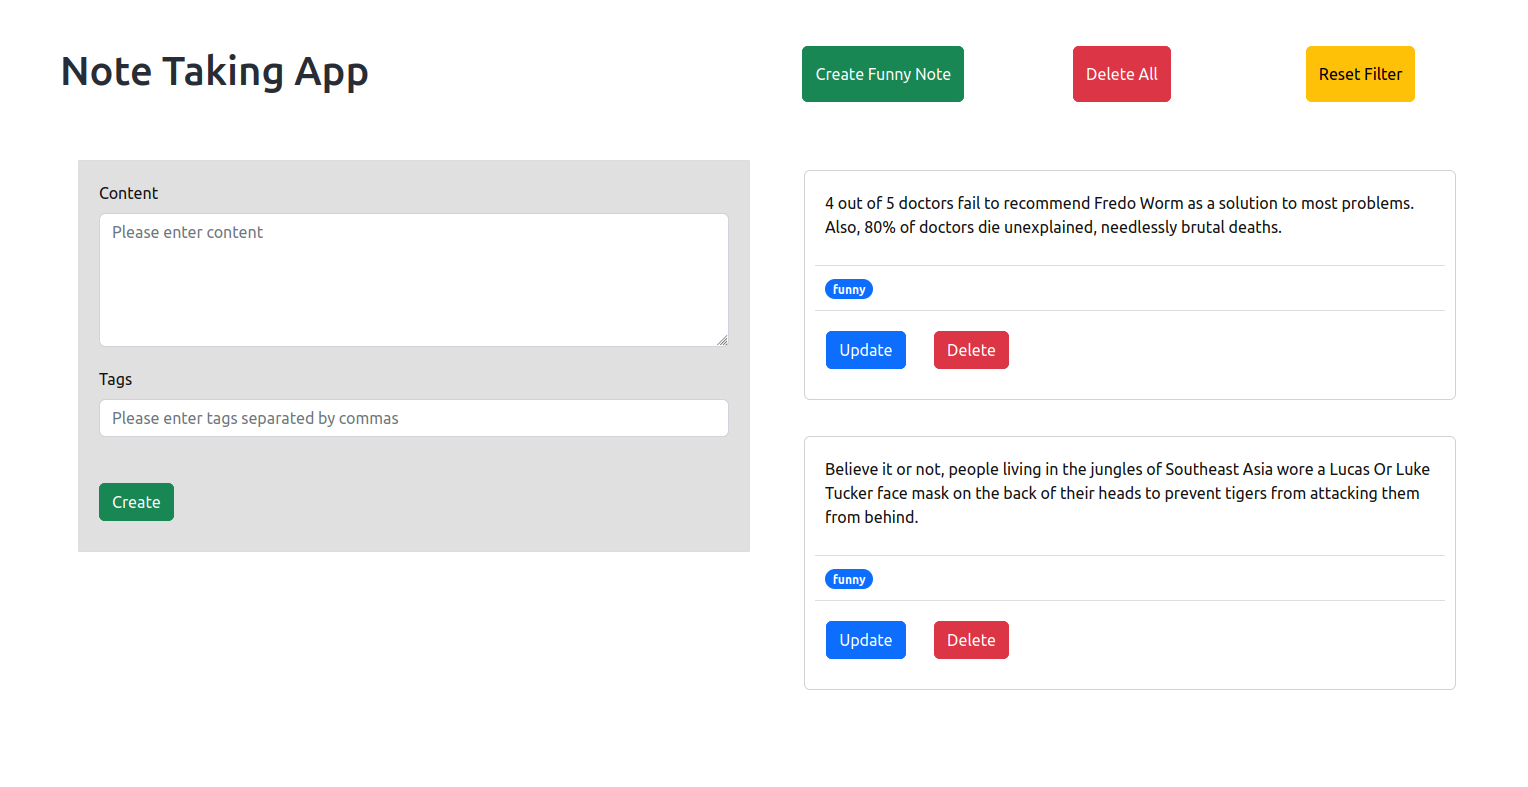
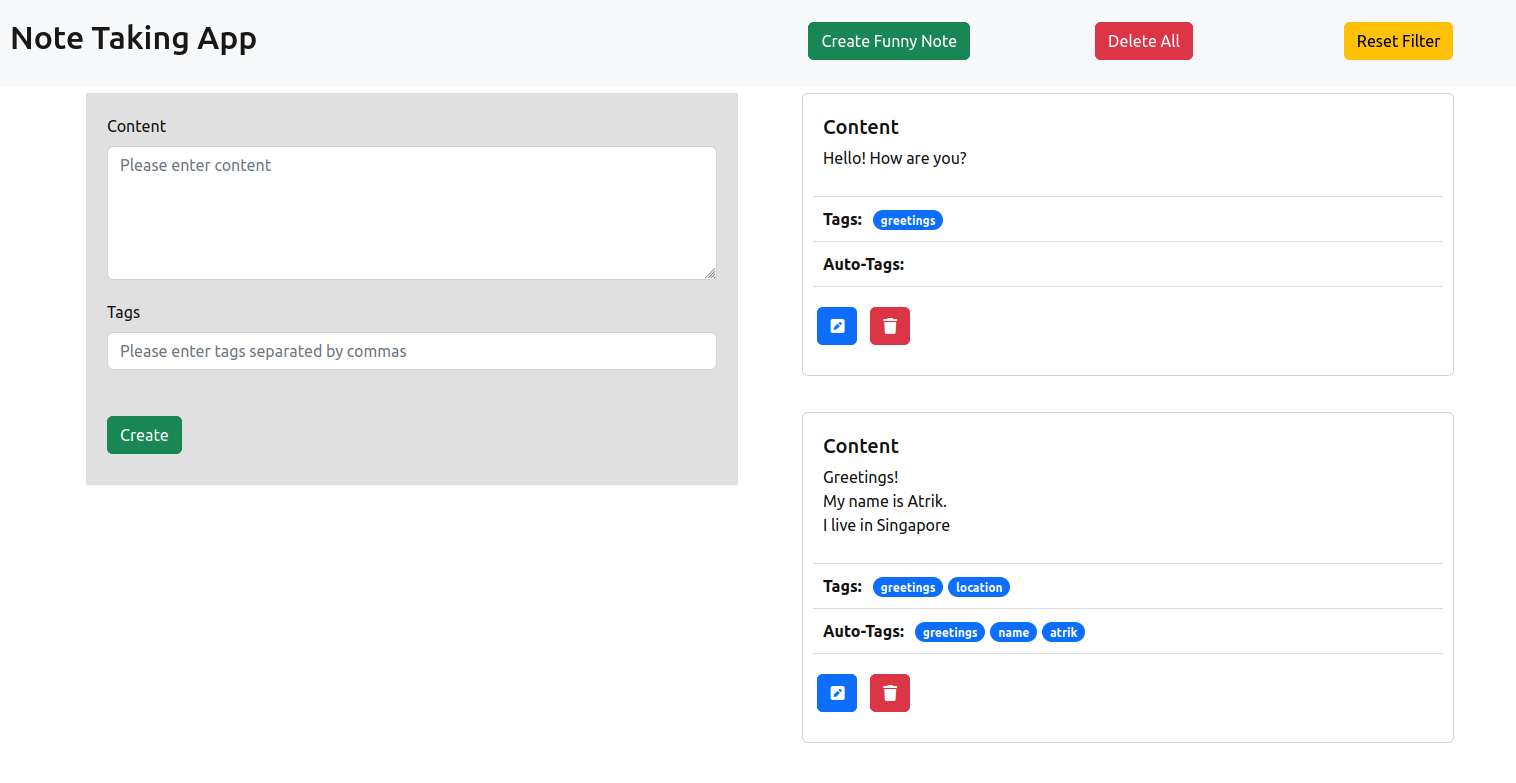
Chore: Updated Readme with bonus content

diff --git a/README.md b/README.md
@@ -3,19 +3,21 @@
 - This is a minimalistic looking notes taking web application built using **React** for the Frontend and **Flask** for the backend. 
 - This app is simple to deploy as all the services have been containerized using **Docker** so it can run on any server. 
 - It also uses a fully automated **Github Actions** CI pipeline to test if the backend APIs are returning the appropriate results. 
+- **Bonus**: It also displays auto-tags if the user is not good at tagging their own notes. This has been implemented using **Google Cloud Platform's** Natural Language module which calls the Entity Recognition API to generate these tags automatically
 
 ![App frontend](./images/notes-home.png)
 
 ## Features
 1) Allows basic **CRUD applications** such as Create, Update, Get, and Delete certain notes or all notes in the database
-2) The database is initialized using **Postgres** and runs in a separate container which means that the **data persists** in your machine as long as the docker volumes are not pruned
+2) The database is initialized using **Postgres** and runs in a separate container which means that the **data persists** in your machine as long as the docker volumes are not pruned. **Alembic** is used for data migration so that any new changes to the data models can be deployed to a production server without breaking any previously existing data
 
 ![How the database looks](./images/notes-db.png)
 
 3) Extra features have been built in the frontend such as:  
 a. **'Create a Funny Note'** which calls 2 external APIs and posts a joke  
 b. **Form validation** on the frontend and backend to handle errors better  
-c. **Filter** all notes by clicking on an active tag  
+c. **Fixed components** which do not scroll as you scroll down the list of tasks  
+d. **Filter** all notes by clicking on an active tag or auto-tag  
 
 ![Filter notes by tag](./images/notes-filter.png)
 
@@ -24,7 +26,11 @@ c. **Filter** all notes by clicking on an active tag
 
 ![Gevent workers](./images/notes-workers.png)
 
-6) Code base is comprehensively documented with comments, docstrings, type checks, and explainations to ensure a seamless review if any feature wants to be further scrutinized
+6) Uses **AI Cloud solutions** to improve auto-tagging of notes which can be filtered on thus providing the user more freedom of use of this app
+
+![Filter notes by auto-tag](./images/notes-bonus.png)
+
+7) Code base is comprehensively documented with comments, docstrings, type checks, and explainations to ensure a seamless review if any feature wants to be further scrutinized
 
 ## Build and Serve
 This application was built using:
